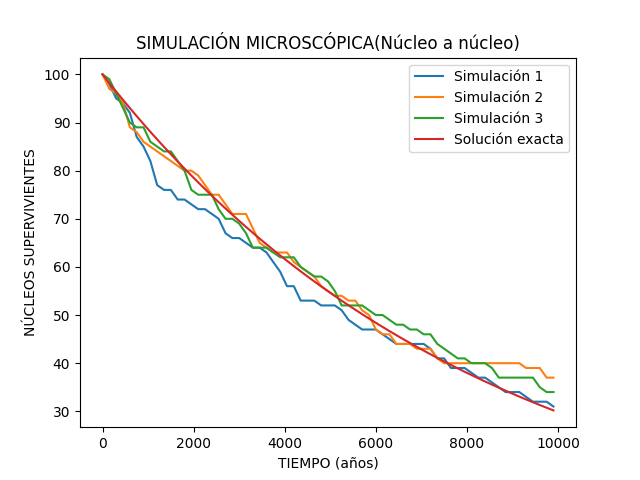
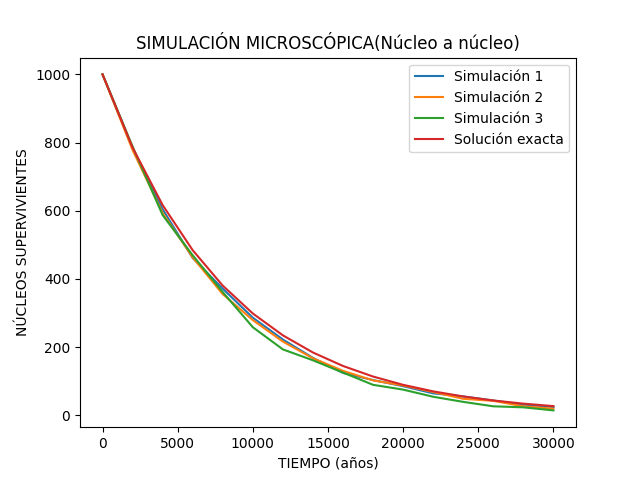
Actualización de las simulaciones

diff --git a/simulaciones/binomial.py b/simulaciones/binomial.py
@@ -6,10 +6,10 @@ import numpy as np
 T12 = 5730.0
 Lambda = np.log(2)/T12
 
-n0 = 10**2 #número de núcleos a tiempo 0
+n0 = 10**3 #número de núcleos a tiempo 0
 
-t = 10000 #tiempo que vamos a simular
-dt = 150  #intervalo de tiempo
+t = 30000 #tiempo que vamos a simular
+dt = 2000  #intervalo de tiempo
 u = int(t/dt) #número de intervalos
 
 N=n0 #número de núcleos supervivientes

diff --git a/simulaciones/microscopic.py b/simulaciones/microscopic.py
@@ -6,10 +6,10 @@ import numpy as np
 T12 = 5730.0
 Lambda = np.log(2)/T12
 
-n0 = 10**2 #número de núcleos a tiempo 0
+n0 = 10**3 #número de núcleos a tiempo 0
 
-t = 10000 #tiempo que vamos a simular
-dt = 150  #intervalo de tiempo
+t = 30000 #tiempo que vamos a simular
+dt = 2000  #intervalo de tiempo
 u = int(t/dt) #número de intervalos
 
 N=n0 #número de núcleos supervivientes

diff --git a/simulaciones/poisson.py b/simulaciones/poisson.py
@@ -6,10 +6,10 @@ import numpy as np
 T12 = 5730.0
 Lambda = np.log(2)/T12
 
-n0 = 10**2 #número de núcleos a tiempo 0
+n0 = 10**3 #número de núcleos a tiempo 0
 
-t = 10000 #tiempo que vamos a simular
-dt = 150  #intervalo de tiempo
+t = 30000 #tiempo que vamos a simular
+dt =2000  #intervalo de tiempo
 u = int(t/dt) #número de intervalos
 
 N=n0 #número de núcleos supervivientes
